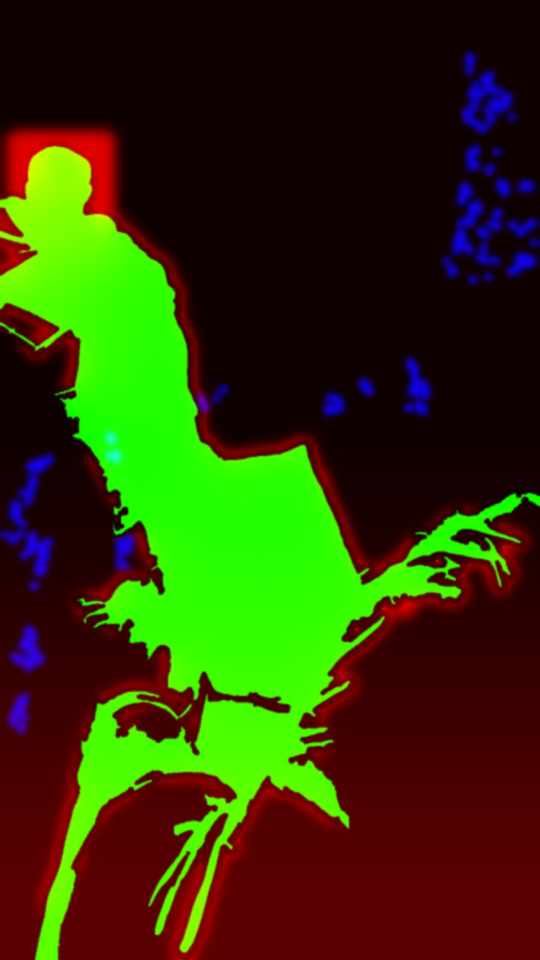
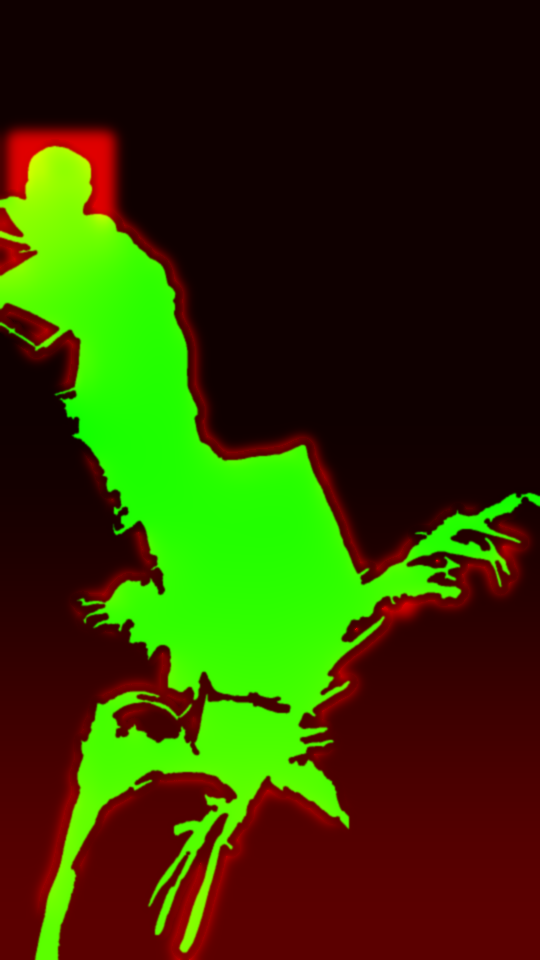
Catheartis ep 3: flicker only on real flames
Removed from s5, s7, s17, s19 and s35, where copper coins, bronze armour,
a gold sceptre and wet-floor reflections were being read as fire.

Claude-Session: https://claude.ai/code/session_01SMXJ3nXtRfudqxiRKbJBnj

diff --git a/catheartis3/index.html b/catheartis3/index.html
@@ -163,7 +163,7 @@ canvas.gl{position:absolute;inset:0;width:100%;height:100%;display:block;opacity
 <script>
 (()=>{
 'use strict';
-const CFG={"blocks":[{"k":"title","img":"assets/cover.jpg","map":"assets/cover-map.png","aspect":[9,16],"focus":0.88,"camcfg":null,"caps_cfg":[],"zmin":1.0,"stage":true,"fog":0.05,"script":"pan","pan":[1.0,0.5,0.5,1.08,0.5,0.46],"bed":"ruins","bedLv":0.6},{"k":"s1","img":"assets/s1.jpg","map":"assets/s1-map.png","aspect":[9,16],"focus":0.787,"camcfg":{"z":[1.02,1.08],"c0":[0.5,0.5],"c1":[0.5,0.54],"off":[0,0]},"caps_cfg":[{"id":"cap-s1-0","type":"c","auto":[0.1829,0.1103,0.3274]}],"zmin":1.02,"bed":"ruins","fog":0.05,"nogl":true,"uclip":"cd707eda","sfxb":[["wind",0.6]],"sfxs":[["mid",0.3,"gallopby",0.8]]},{"k":"s2","img":"assets/s2.jpg","map":"assets/s2-map.png","aspect":[9,16],"focus":0.815,"camcfg":{"z":[1.02,1.08],"c0":[0.5,0.5],"c1":[0.5,0.54],"off":[0,0]},"caps_cfg":[{"id":"cap-s2-0","type":"c","auto":[0.1848,0.1276,0.2679]}],"zmin":1.02,"bed":"ruins","fog":0.05,"nogl":true,"uclip":"9173161c","sfxb":[["wind",0.6]]},{"k":"s3","img":"assets/s3.jpg","map":"assets/s3-map.png","aspect":[9,16],"focus":0.694,"camcfg":{"z":[1.02,1.08],"c0":[0.5,0.5],"c1":[0.5,0.54],"off":[0,0]},"caps_cfg":[{"id":"cap-s3-0","type":"c","auto":[0.2194,0.1427,0.3125]}],"zmin":1.02,"bed":"ruins","fog":0.05,"nogl":true,"uclip":"3ab6440e","sfxb":[["horses",1.0]]},{"k":"s4","img":"assets/s4-bg.jpg","map":"assets/s4-map.png","aspect":[9,16],"focus":0.873,"camcfg":{"z":[1.05,1.09],"c0":[0.5,0.5],"c1":[0.484,0.521],"off":[0.008,0.04]},"caps_cfg":[{"id":"cap-s4-0","type":"b","auto":[0.8286,0.395,0.2381],"spk":{"m":[0.7883,0.4849],"e":[0.7925,0.4767,0.0295,0.0195]},"avoid":[[0.5546,0.2684,0.0809,0.0544],[0.7672,0.46,0.0505,0.0335]]}],"zmin":1.04,"bed":"ruins","fog":0.05,"fxmap":true,"fg":"assets/s4.jpg","fgp":{"c":[0.452,0.562],"z":[1.0,1.1],"o0":[0,0.025],"o1":[0,-0.025]},"dof":0.0018},{"k":"s5","img":"assets/s5-bg.jpg","map":"assets/s5-map.png","aspect":[9,16],"focus":0.88,"camcfg":{"z":[1.06,1.08],"c0":[0.5,0.5],"c1":[0.526,0.495],"off":[-0.02,0.028]},"caps_cfg":[{"id":"cap-s5-0","type":"b","auto":[0.4594,0.213,0.3125],"spk":{"m":[0.6872,0.1567],"e":[0.7147,0.132,0.0741,0.0665]},"avoid":[[0.2176,0.5685,0.1329,0.0914],[0.6512,0.075,0.127,0.1139]]}],"zmin":1.04,"bed":"ruins","fog":0.05,"fxmap":true,"gmode":0,"fg":"assets/s5.jpg","fgp":{"c":[0.579,0.5],"z":[1.0,1.03],"o0":[0.0,0],"o1":[-0.032,0]},"dof":0.0016},{"k":"s6","img":"assets/s6-bg.jpg","map":"assets/s6-map.png","aspect":[9,16],"focus":0.88,"camcfg":{"z":[1.06,1.08],"c0":[0.5,0.5],"c1":[0.471,0.52],"off":[0.006,-0.03]},"caps_cfg":[{"id":"cap-s6-0","type":"b","auto":[0.8097,0.5354,0.2827],"spk":{"m":[0.7887,0.351],"e":[0.7414,0.2875,0.1691,0.13]},"avoid":[[0.5965,0.176,0.2899,0.2229]]}],"zmin":1.04,"bed":"ruins","fog":0.05,"fxmap":true,"fg":"assets/s6.jpg","fgp":{"c":[0.418,0.98],"z":[1.02,1.05],"o0":[0,0.035],"o1":[0,-0.035]},"dof":0.0016},{"k":"s7","img":"assets/s7-bg.jpg","map":"assets/s7-map.png","aspect":[9,16],"focus":0.88,"camcfg":{"z":[1.05,1.09],"c0":[0.5,0.5],"c1":[0.555,0.545],"off":[0.008,0.04]},"caps_cfg":[{"id":"cap-s7-0","type":"b","auto":[0.3889,0.1946,0.2381],"spk":{"m":[0.5842,0.1981],"e":[0.6161,0.1762,0.064,0.051]},"avoid":[[0.5613,0.1326,0.1097,0.0874],[0.2825,0.4781,0.0455,0.0303],[0.5028,0.4372,0.0763,0.049]]},{"id":"cap-s7-1","type":"b","auto":[0.3441,0.3884,0.2381],"spk":{"m":[0.3062,0.501],"e":[0.3053,0.4932,0.0266,0.0177]},"avoid":[[0.5613,0.1326,0.1097,0.0874],[0.2825,0.4781,0.0455,0.0303],[0.5028,0.4372,0.0763,0.049]]}],"zmin":1.04,"bed":"ruins","fog":0.05,"fxmap":true,"gmode":0,"fg":"assets/s7.jpg","fgp":{"c":[0.606,0.98],"z":[1.0,1.1],"o0":[0,0.025],"o1":[0,-0.025]},"dof":0.0018},{"k":"s8","img":"assets/s8-bg.jpg","map":"assets/s8-map.png","aspect":[9,16],"focus":0.88,"camcfg":{"z":[1.06,1.08],"c0":[0.5,0.5],"c1":[0.449,0.517],"off":[-0.02,0.028]},"caps_cfg":[{"id":"cap-s8-0","type":"b","auto":[0.7611,0.1982,0.2679],"spk":{"m":[0.7145,0.293],"e":[0.7128,0.2839,0.0342,0.0239]},"avoid":[[0.6835,0.2634,0.0587,0.041]]}],"zmin":1.04,"bed":"ruins","fog":0.05,"fxmap":true,"fg":"assets/s8.jpg","fgp":{"c":[0.364,0.5],"z":[1.0,1.03],"o0":[0.032,0],"o1":[0.0,0]},"dof":0.0016},{"k":"s10","img":"assets/s10.jpg","map":"assets/s10-map.png","aspect":[9,16],"focus":0.781,"camcfg":{"z":[1.02,1.08],"c0":[0.5,0.5],"c1":[0.5,0.54],"off":[0,0]},"caps_cfg":[{"id":"cap-s10-0","type":"c","auto":[0.2329,0.1232,0.372]}],"zmin":1.02,"bed":"hall","fog":0.05,"nogl":true,"uclip":"d0f9e121","sfxb":[["fire",0.45]]},{"k":"s11","img":"assets/s11.jpg","map":"assets/s11-map.png","aspect":[9,16],"focus":0.88,"camcfg":{"z":[1.02,1.08],"c0":[0.5,0.5],"c1":[0.5,0.54],"off":[0,0]},"caps_cfg":[{"id":"cap-s11-0","type":"b","auto":[0.2847,0.3675,0.2381],"tip":[0.2252,0.3957]}],"zmin":1.02,"bed":"hall","fog":0.05,"nogl":true,"sfxb":[["fire",0.45]]},{"k":"s12","img":"assets/s12.jpg","map":"assets/s12-map.png","aspect":[9,16],"focus":0.88,"camcfg":{"z":[1.04,1.12],"c0":[0.5,0.5],"c1":[0.499,0.535],"off":[0.006,0.032]},"caps_cfg":[{"id":"cap-s12-0","type":"b","auto":[0.8206,0.3924,0.2381],"spk":{"m":[0.5396,0.3463],"e":[0.5353,0.2961,0.1565,0.1119]},"avoid":[[0.4012,0.2002,0.2683,0.1919],[0.0271,0.4888,0.1483,0.1219]]}],"zmin":1.04,"bed":"hall","fog":0.05,"fxmap":true,"sfxb":[["fire",0.45]]},{"k":"s13","img":"assets/s13-bg.jpg","map":"assets/s13-map.png","aspect":[9,16],"focus":0.697,"camcfg":{"z":[1.06,1.08],"c0":[0.5,0.5],"c1":[0.58,0.519],"off":[0.006,-0.03]},"caps_cfg":[{"id":"cap-s13-0","type":"b","auto":[0.8228,0.3729,0.2381],"tip":[0.7633,0.4011]},{"id":"cap-s13-1","type":"c","auto":[0.2001,0.0995,0.2679]}],"zmin":1.04,"bed":"hall","fog":0.05,"fxmap":true,"gmode":0,"fg":"assets/s13.jpg","fgp":{"c":[0.528,0.549],"z":[1.02,1.05],"o0":[0,0.035],"o1":[0,-0.035]},"dof":0.0016,"sfxb":[["fire",0.45]]},{"k":"s14","img":"assets/s14-bg.jpg","map":"assets/s14-map.png","aspect":[9,16],"focus":0.88,"camcfg":{"z":[1.05,1.09],"c0":[0.5,0.5],"c1":[0.426,0.559],"off":[0.008,0.04]},"caps_cfg":[{"id":"cap-s14-0","type":"b","auto":[0.3308,0.2558,0.2381],"spk":{"m":[0.3507,0.3997],"e":[0.3399,0.3889,0.0268,0.0258]},"avoid":[[0.3169,0.3668,0.046,0.0443],[0.821,0.56,0.0125,0.0089]]},{"id":"cap-s14-1","type":"b","auto":[0.7304,0.4732,0.2381],"tip":[0.6709,0.5178],"avoid":[[0.3169,0.3668,0.046,0.0443],[0.821,0.56,0.0125,0.0089]]}],"zmin":1.04,"bed":"hall","fog":0.05,"fxmap":true,"gmode":0,"fg":"assets/s14.jpg","fgp":{"c":[0.28,0.98],"z":[1.0,1.1],"o0":[0,0.025],"o1":[0,-0.025]},"dof":0.0018,"sfxb":[["fire",0.45]]},{"k":"s15","img":"assets/s15-bg.jpg","map":"assets/s15-map.png","aspect":[9,16],"focus":0.794,"camcfg":{"z":[1.06,1.08],"c0":[0.5,0.5],"c1":[0.522,0.497],"off":[-0.02,0.028]},"caps_cfg":[{"id":"cap-s15-0","type":"b","auto":[0.8337,0.5632,0.253],"tip":[0.6864,0.5632]}],"zmin":1.04,"bed":"hall","fog":0.05,"fxmap":true,"fg":"assets/s15.jpg","fgp":{"c":[0.577,0.5],"z":[1.0,1.03],"o0":[0.032,0],"o1":[-0.032,0]},"dof":0.0016,"sfxb":[["fire",0.45]]},{"k":"s16","img":"assets/s16-bg.jpg","map":"assets/s16-map.png","aspect":[9,16],"focus":0.88,"camcfg":{"z":[1.06,1.08],"c0":[0.5,0.5],"c1":[0.446,0.514],"off":[0.006,-0.03]},"caps_cfg":[{"id":"cap-s16-0","type":"b","auto":[0.6196,0.2519,0.2976],"spk":{"m":[0.3544,0.2178],"e":[0.3401,0.1915,0.0714,0.0599]},"avoid":[[0.2789,0.1402,0.1224,0.1026],[0.6692,0.4351,0.1271,0.0876],[0.5485,0.4229,0.0661,0.0519]]},{"id":"cap-s16-1","type":"c","auto":[0.792,0.0865,0.2976]}],"zmin":1.04,"bed":"hall","fog":0.05,"fxmap":true,"gmode":0,"fg":"assets/s16.jpg","fgp":{"c":[0.346,0.98],"z":[1.02,1.05],"o0":[0,0.035],"o1":[0,-0.035]},"dof":0.0016,"sfxb":[["fire",0.45]]},{"k":"s17","img":"assets/s17-bg.jpg","map":"assets/s17-map.png","aspect":[9,16],"focus":0.88,"camcfg":{"z":[1.05,1.09],"c0":[0.5,0.5],"c1":[0.459,0.512],"off":[0.008,0.04]},"caps_cfg":[{"id":"cap-s17-0","type":"b","auto":[0.6456,0.4097,0.2976],"tip":[0.8152,0.4097],"avoid":[[0.0687,0.1796,0.0906,0.0624],[0.4229,0.5436,0.1177,0.0837]]},{"id":"cap-s17-1","type":"c","auto":[0.1843,0.0755,0.3423]}],"zmin":1.04,"bed":"hall","fog":0.05,"fxmap":true,"gmode":0,"fg":"assets/s17.jpg","fgp":{"c":[0.362,0.98],"z":[1.0,1.1],"o0":[0,0.025],"o1":[0,-0.025]},"dof":0.0018,"sfxb":[["fire",0.45]]},{"k":"s18","img":"assets/s18-bg.jpg","map":"assets/s18-map.png","aspect":[9,16],"focus":0.694,"camcfg":{"z":[1.06,1.08],"c0":[0.5,0.5],"c1":[0.499,0.467],"off":[-0.02,0.028]},"caps_cfg":[{"id":"cap-s18-0","type":"b","auto":[0.2285,0.547,0.2976],"tip":[0.3981,0.547],"avoid":[[0.7626,0.1488,0.1738,0.13]]}],"zmin":1.04,"bed":"hall","fog":0.05,"fxmap":true,"fg":"assets/s18.jpg","fgp":{"c":[0.517,0.5],"z":[1.0,1.03],"o0":[0.032,0],"o1":[-0.032,0]},"dof":0.0016,"sfxb":[["fire",0.45]]},{"k":"s19","img":"assets/s19-bg.jpg","map":"assets/s19-map.png","aspect":[9,16],"focus":0.854,"camcfg":{"z":[1.06,1.08],"c0":[0.5,0.5],"c1":[0.483,0.546],"off":[0.006,-0.03]},"caps_cfg":[{"id":"cap-s19-0","type":"c","auto":[0.2098,0.1092,0.2679]}],"zmin":1.04,"bed":"hall","fog":0.05,"fxmap":true,"gmode":0,"fg":"assets/s19.jpg","fgp":{"c":[0.4,0.608],"z":[1.02,1.05],"o0":[0,0.035],"o1":[0,-0.035]},"dof":0.0016,"sfxb":[["fire",0.45]]},{"k":"s20","img":"assets/s20.jpg","map":"assets/s20-map.png","aspect":[9,16],"focus":0.848,"camcfg":{"z":[1.02,1.08],"c0":[0.5,0.5],"c1":[0.5,0.54],"off":[0,0]},"caps_cfg":[{"id":"cap-s20-0","type":"b","auto":[0.6306,0.1403,0.2381],"spk":{"m":[0.5869,0.2187],"e":[0.5874,0.2149,0.0105,0.0072]},"avoid":[[0.5784,0.2087,0.018,0.0123],[0.6441,0.6825,0.0346,0.0248],[0.7343,0.5068,0.0311,0.0232]]},{"id":"cap-s20-1","type":"b","auto":[0.4525,0.3705,0.3125],"tip":[0.5306,0.4151],"avoid":[[0.5784,0.2087,0.018,0.0123],[0.6441,0.6825,0.0346,0.0248],[0.7343,0.5068,0.0311,0.0232]]}],"zmin":1.02,"bed":"hall","fog":0.05,"nogl":true,"sfxb":[["fire",0.45]]},{"k":"s21","img":"assets/s21.jpg","map":"assets/s21-map.png","aspect":[9,16],"focus":0.88,"camcfg":{"z":[1.04,1.12],"c0":[0.5,0.5],"c1":[0.494,0.545],"off":[0.006,0.032]},"caps_cfg":[{"id":"cap-s21-0","type":"b","auto":[0.769,0.1532,0.2381],"spk":{"m":[0.6353,0.572],"e":[0.572,0.4797,0.2568,0.2104]},"avoid":[[0.352,0.2994,0.4402,0.3606],[0.0255,0.2037,0.1548,0.0949]]},{"id":"cap-s21-1","type":"c","auto":[0.2212,0.0789,0.3274]}],"zmin":1.04,"bed":"hall","fog":0.05,"fxmap":true,"sfxb":[["fire",0.45]]},{"k":"s22","img":"assets/s22.jpg","map":"assets/s22-map.png","aspect":[9,16],"focus":0.88,"camcfg":{"z":[1.04,1.12],"c0":[0.5,0.5],"c1":[0.517,0.504],"off":[0.006,0.032]},"caps_cfg":[{"id":"cap-s22-0","type":"b","auto":[0.3544,0.4022,0.3571],"tip":[0.5538,0.4022],"avoid":[[0.6315,0.2548,0.1988,0.1379],[0.2176,0.5694,0.166,0.1029]]},{"id":"cap-s22-1","type":"c","auto":[0.2385,0.093,0.2679]}],"zmin":1.04,"bed":"hall","fog":0.05,"fxmap":true,"gmode":0,"sfxb":[["fire",0.45]]},{"k":"s23","img":"assets/s23.jpg","map":"assets/s23-map.png","aspect":[9,16],"focus":0.605,"camcfg":{"z":[1.02,1.08],"c0":[0.5,0.5],"c1":[0.5,0.54],"off":[0,0]},"caps_cfg":[{"id":"cap-s23-0","type":"b","auto":[0.6806,0.3138,0.2381],"spk":{"m":[0.5384,0.3183],"e":[0.4843,0.2485,0.1556,0.1355]},"avoid":[[0.3045,0.462,0.1,0.0787],[0.3509,0.1323,0.2667,0.2323]]},{"id":"cap-s23-1","type":"c","auto":[0.225,0.1092,0.2976]}],"zmin":1.02,"bed":"hall","fog":0.05,"nogl":true,"uclip":"fddb3e59","sfxb":[["fire",0.45]]},{"k":"s24","img":"assets/s24.jpg","map":"assets/s24-map.png","aspect":[9,16],"focus":0.88,"camcfg":{"z":[1.04,1.12],"c0":[0.5,0.5],"c1":[0.495,0.525],"off":[0.006,0.032]},"caps_cfg":[{"id":"cap-s24-0","type":"b","auto":[0.7273,0.5984,0.3571],"tip":[0.638,0.5049]}],"zmin":1.04,"bed":"hall","fog":0.05,"fxmap":true,"gmode":0,"sfxb":[["fire",0.45]]},{"k":"s25","img":"assets/s25-bg.jpg","map":"assets/s25-map.png","aspect":[9,16],"focus":0.88,"camcfg":{"z":[1.05,1.09],"c0":[0.5,0.5],"c1":[0.498,0.557],"off":[0.008,0.04]},"caps_cfg":[{"id":"cap-s25-0","type":"b","auto":[0.78,0.18,0.26],"spk":{"m":[0.5089,0.2899],"e":[0.4974,0.2721,0.0674,0.0453]},"avoid":[[0.4397,0.2332,0.1155,0.0777],[0.2143,0.0745,0.2389,0.2056]]}],"zmin":1.04,"bed":"hall","fog":0.05,"fxmap":true,"gmode":0,"fg":"assets/s25.jpg","fgp":{"c":[0.489,0.98],"z":[1.0,1.1],"o0":[0,0.025],"o1":[0,-0.025]},"dof":0.0018,"sfxb":[["fire",0.45]]},{"k":"s26","img":"assets/s26-bg.jpg","map":"assets/s26-map.png","aspect":[9,16],"focus":0.822,"camcfg":{"z":[1.06,1.08],"c0":[0.5,0.5],"c1":[0.487,0.475],"off":[-0.02,0.028]},"caps_cfg":[{"id":"cap-s26-0","type":"b","auto":[0.8137,0.4216,0.2976],"tip":[0.6441,0.4216],"avoid":[[0.2558,0.5089,0.0491,0.0397],[0.6391,0.6781,0.0397,0.0262]]},{"id":"cap-s26-1","type":"c","auto":[0.177,0.1243,0.2679]}],"zmin":1.04,"bed":"camp","fxmap":true,"fg":"assets/s26.jpg","fgp":{"c":[0.454,0.5],"z":[1.0,1.03],"o0":[0.032,0],"o1":[0.0,0]},"dof":0.0016},{"k":"s27","img":"assets/s27-bg.jpg","map":"assets/s27-map.png","aspect":[9,16],"focus":0.69,"camcfg":{"z":[1.06,1.08],"c0":[0.5,0.5],"c1":[0.557,0.456],"off":[0.006,-0.03]},"caps_cfg":[{"id":"cap-s27-0","type":"b","auto":[0.3044,0.3416,0.2381],"tip":[0.4443,0.3416]}],"zmin":1.04,"bed":"camp","fxmap":true,"gmode":0,"fg":"assets/s27.jpg","fgp":{"c":[0.56,0.98],"z":[1.02,1.05],"o0":[0,0.035],"o1":[0,-0.035]},"dof":0.0016},{"k":"s28","img":"assets/s28-bg.jpg","map":"assets/s28-map.png","aspect":[9,16],"focus":0.88,"camcfg":{"z":[1.05,1.09],"c0":[0.5,0.5],"c1":[0.523,0.537],"off":[0.008,0.04]},"caps_cfg":[{"id":"cap-s28-0","type":"b","auto":[0.6095,0.2083,0.2381],"spk":{"m":[0.5582,0.3562],"e":[0.5643,0.3421,0.0475,0.0328]},"avoid":[[0.5236,0.314,0.0814,0.0562]]}],"zmin":1.04,"bed":"camp","fxmap":true,"gmode":0,"fg":"assets/s28.jpg","fgp":{"c":[0.41,0.98],"z":[1.0,1.1],"o0":[0,0.025],"o1":[0,-0.025]},"dof":0.0018},{"k":"s29","img":"assets/s29-bg.jpg","map":"assets/s29-map.png","aspect":[9,16],"focus":0.865,"camcfg":{"z":[1.06,1.08],"c0":[0.5,0.5],"c1":[0.522,0.505],"off":[-0.02,0.028]},"caps_cfg":[{"id":"cap-s29-0","type":"b","auto":[0.4403,0.124,0.2381],"spk":{"m":[0.5451,0.4802],"e":[0.5297,0.409,0.2018,0.1534]},"avoid":[[0.3567,0.2775,0.346,0.2629]]}],"zmin":1.04,"bed":"camp","fxmap":true,"fg":"assets/s29.jpg","fgp":{"c":[0.565,0.5],"z":[1.0,1.03],"o0":[0.032,0],"o1":[-0.032,0]},"dof":0.0016},{"k":"s30","img":"assets/s30-bg.jpg","map":"assets/s30-map.png","aspect":[9,16],"focus":0.858,"camcfg":{"z":[1.06,1.08],"c0":[0.5,0.5],"c1":[0.519,0.558],"off":[0.006,-0.03]},"caps_cfg":[{"id":"cap-s30-0","type":"c","auto":[0.7844,0.1438,0.3571]}],"zmin":1.04,"bed":"jungle","fxmap":true,"fg":"assets/s30.jpg","fgp":{"c":[0.55,0.668],"z":[1.02,1.05],"o0":[0,0.035],"o1":[0,-0.035]},"dof":0.0016,"sfxb":[["garden",0.8]]},{"k":"s31","img":"assets/s31-bg.jpg","map":"assets/s31-map.png","aspect":[9,16],"focus":0.672,"camcfg":{"z":[1.05,1.09],"c0":[0.5,0.5],"c1":[0.58,0.434],"off":[0.008,0.04]},"caps_cfg":[{"id":"cap-s31-0","type":"b","auto":[0.4908,0.1168,0.2381],"spk":{"m":[0.7015,0.118],"e":[0.7098,0.1019,0.0481,0.0341]},"avoid":[[0.6686,0.0726,0.0824,0.0585],[0.3044,0.2947,0.076,0.0672]]},{"id":"cap-s31-1","type":"b","auto":[0.536,0.3546,0.2381],"spk":{"m":[0.3651,0.3453],"e":[0.3424,0.3284,0.0444,0.0392]},"avoid":[[0.6686,0.0726,0.0824,0.0585],[0.3044,0.2947,0.076,0.0672]]}],"zmin":1.04,"bed":"jungle","fxmap":true,"fg":"assets/s31.jpg","fgp":{"c":[0.521,0.386],"z":[1.0,1.1],"o0":[0,0.025],"o1":[0,-0.025]},"dof":0.0018,"sfxb":[["garden",0.8]]},{"k":"s32","img":"assets/s32-bg.jpg","map":"assets/s32-map.png","aspect":[9,16],"focus":0.88,"camcfg":{"z":[1.06,1.08],"c0":[0.5,0.5],"c1":[0.572,0.489],"off":[-0.02,0.028]},"caps_cfg":[{"id":"cap-s32-0","type":"b","auto":[0.4187,0.4534,0.3869],"tip":[0.5154,0.3762]}],"zmin":1.04,"bed":"jungle","fxmap":true,"fg":"assets/s32.jpg","fgp":{"c":[0.709,0.5],"z":[1.0,1.03],"o0":[0.0,0],"o1":[-0.032,0]},"dof":0.0016,"sfxb":[["garden",0.8]]},{"k":"s33","img":"assets/s33-bg.jpg","map":"assets/s33-map.png","aspect":[9,16],"focus":0.603,"camcfg":{"z":[1.06,1.08],"c0":[0.5,0.5],"c1":[0.477,0.464],"off":[0.006,-0.03]},"caps_cfg":[{"id":"cap-s33-0","type":"b","auto":[0.7331,0.2128,0.3125],"spk":{"m":[0.5739,0.4379],"e":[0.4697,0.3762,0.1759,0.1447]},"avoid":[[0.3189,0.2522,0.3015,0.2481],[0.7555,0.0183,0.0127,0.0091]]}],"zmin":1.04,"bed":"jungle","fxmap":true,"fg":"assets/s33.jpg","fgp":{"c":[0.43,0.392],"z":[1.02,1.05],"o0":[0,0.035],"o1":[0,-0.035]},"dof":0.0016,"sfxb":[["garden",0.8]]},{"k":"s34","img":"assets/s34.jpg","map":"assets/s34-map.png","aspect":[9,16],"focus":0.5,"camcfg":{"z":[1.04,1.12],"c0":[0.5,0.5],"c1":[0.5,0.5],"off":[0.006,0.032]},"caps_cfg":[{"id":"cap-s34-0","type":"c","auto":[0.7344,0.1211,0.3869]}],"zmin":1.04,"bed":"study","fxmap":true,"sfxb":[["garden",0.8]]},{"k":"s35","img":"assets/s35-bg.jpg","map":"assets/s35-map.png","aspect":[9,16],"focus":0.761,"camcfg":{"z":[1.05,1.09],"c0":[0.5,0.5],"c1":[0.58,0.512],"off":[0.008,0.04]},"caps_cfg":[{"id":"cap-s35-0","type":"b","auto":[0.1963,0.3658,0.2381],"spk":{"m":[0.1463,0.4585],"e":[0.1441,0.4522,0.0242,0.015]},"avoid":[[0.2359,0.4228,0.0376,0.0267],[0.3278,0.4342,0.0289,0.0239],[0.7581,0.4129,0.1804,0.1004],[0.502,0.3283,0.0402,0.031],[0.1234,0.4394,0.0414,0.0257]]},{"id":"cap-s35-1","type":"b","auto":[0.45,0.5,0.2976],"spk":{"m":[0.511,0.3509],"e":[0.5221,0.3438,0.0235,0.0181]},"avoid":[[0.2359,0.4228,0.0376,0.0267],[0.3278,0.4342,0.0289,0.0239],[0.7581,0.4129,0.1804,0.1004],[0.502,0.3283,0.0402,0.031],[0.1234,0.4394,0.0414,0.0257]]}],"zmin":1.04,"bed":"study","fxmap":true,"gmode":0,"fg":"assets/s35.jpg","fgp":{"c":[0.655,0.597],"z":[1.0,1.1],"o0":[0,0.025],"o1":[0,-0.025]},"dof":0.0018},{"k":"s36","img":"assets/s36-bg.jpg","map":"assets/s36-map.png","aspect":[9,16],"focus":0.88,"camcfg":{"z":[1.05,1.09],"c0":[0.5,0.5],"c1":[0.459,0.537],"off":[0.008,0.04]},"caps_cfg":[{"id":"cap-s36-0","type":"b","auto":[0.7297,0.2835,0.3423],"tip":[0.6441,0.3362]}],"zmin":1.04,"bed":"study","fxmap":true,"fg":"assets/s36.jpg","fgp":{"c":[0.381,0.98],"z":[1.0,1.1],"o0":[0,0.025],"o1":[0,-0.025]},"dof":0.0018},{"k":"s37","img":"assets/s37-bg.jpg","map":"assets/s37-map.png","aspect":[9,16],"focus":0.675,"camcfg":{"z":[1.06,1.08],"c0":[0.5,0.5],"c1":[0.487,0.42],"off":[0.006,-0.03]},"caps_cfg":[{"id":"cap-s37-0","type":"b","auto":[0.2854,0.2616,0.253],"spk":{"m":[0.5293,0.2037],"e":[0.5202,0.1768,0.102,0.0645]},"avoid":[[0.4328,0.1215,0.1749,0.1105]]}],"zmin":1.04,"bed":"study","fxmap":true,"fg":"assets/s37.jpg","fgp":{"c":[0.544,0.408],"z":[1.02,1.05],"o0":[0,0.035],"o1":[0,-0.035]},"dof":0.0016},{"k":"s38","img":"assets/s38-bg.jpg","map":"assets/s38-map.png","aspect":[9,16],"focus":0.822,"camcfg":{"z":[1.05,1.09],"c0":[0.5,0.5],"c1":[0.516,0.466],"off":[0.008,0.04]},"caps_cfg":[{"id":"cap-s38-0","type":"b","auto":[0.1456,0.24,0.2827],"tip":[0.3078,0.24]}],"zmin":1.04,"bed":"study","fxmap":true,"fg":"assets/s38.jpg","fgp":{"c":[0.547,0.402],"z":[1.0,1.1],"o0":[0,0.025],"o1":[0,-0.025]},"dof":0.0018},{"k":"s39","img":"assets/s39-bg.jpg","map":"assets/s39-map.png","aspect":[9,16],"focus":0.723,"camcfg":{"z":[1.06,1.08],"c0":[0.5,0.5],"c1":[0.494,0.494],"off":[-0.02,0.028]},"caps_cfg":[{"id":"cap-s39-0","type":"b","auto":[0.141,0.6184,0.2381],"tip":[0.2809,0.6184]}],"zmin":1.04,"bed":"study","fxmap":true,"fg":"assets/s39.jpg","fgp":{"c":[0.491,0.5],"z":[1.0,1.03],"o0":[0.032,0],"o1":[-0.032,0]},"dof":0.0016},{"k":"s40","img":"assets/s40-bg.jpg","map":"assets/s40-map.png","aspect":[9,16],"focus":0.88,"camcfg":{"z":[1.06,1.08],"c0":[0.5,0.5],"c1":[0.493,0.465],"off":[0.006,-0.03]},"caps_cfg":[{"id":"cap-s40-0","type":"b","auto":[0.6229,0.6008,0.2381],"tip":[0.5634,0.5481],"avoid":[[0.9222,0.005,0.0845,0.0676]]},{"id":"cap-s40-1","type":"c","auto":[0.1943,0.0876,0.3423]},{"id":"cap-s40-2","type":"c","auto":[0.8095,0.7741,0.3274]}],"zmin":1.04,"bed":"study","fxmap":true,"fg":"assets/s40.jpg","fgp":{"c":[0.468,0.98],"z":[1.02,1.05],"o0":[0,0.035],"o1":[0,-0.035]},"dof":0.0016}],"fsk":{"c":1.25,"b":1.08},"sfxFiles":{"horses":{"src":"assets/sfx/horses.m4a","loop":true,"seam":[2.0,9.7,0.5]},"wind":{"src":"assets/sfx/wind.m4a","loop":true,"seam":[0.0,24.5,2.0]},"fire":{"src":"assets/sfx/fire.m4a","loop":true,"seam":[0.5,31.0,3.0]},"garden":{"src":"assets/sfx/garden.m4a","loop":true,"seam":[1.0,83.0,3.0]},"gallopby":{"src":"assets/sfx/gallop-by.m4a","loop":false}}};
+const CFG={"blocks":[{"k":"title","img":"assets/cover.jpg","map":"assets/cover-map.png","aspect":[9,16],"focus":0.88,"camcfg":null,"caps_cfg":[],"zmin":1.0,"stage":true,"fog":0.05,"script":"pan","pan":[1.0,0.5,0.5,1.08,0.5,0.46],"bed":"ruins","bedLv":0.6},{"k":"s1","img":"assets/s1.jpg","map":"assets/s1-map.png","aspect":[9,16],"focus":0.787,"camcfg":{"z":[1.02,1.08],"c0":[0.5,0.5],"c1":[0.5,0.54],"off":[0,0]},"caps_cfg":[{"id":"cap-s1-0","type":"c","auto":[0.1829,0.1103,0.3274]}],"zmin":1.02,"bed":"ruins","fog":0.05,"nogl":true,"uclip":"cd707eda","sfxb":[["wind",0.6]],"sfxs":[["mid",0.3,"gallopby",0.8]]},{"k":"s2","img":"assets/s2.jpg","map":"assets/s2-map.png","aspect":[9,16],"focus":0.815,"camcfg":{"z":[1.02,1.08],"c0":[0.5,0.5],"c1":[0.5,0.54],"off":[0,0]},"caps_cfg":[{"id":"cap-s2-0","type":"c","auto":[0.1848,0.1276,0.2679]}],"zmin":1.02,"bed":"ruins","fog":0.05,"nogl":true,"uclip":"9173161c","sfxb":[["wind",0.6]]},{"k":"s3","img":"assets/s3.jpg","map":"assets/s3-map.png","aspect":[9,16],"focus":0.694,"camcfg":{"z":[1.02,1.08],"c0":[0.5,0.5],"c1":[0.5,0.54],"off":[0,0]},"caps_cfg":[{"id":"cap-s3-0","type":"c","auto":[0.2194,0.1427,0.3125]}],"zmin":1.02,"bed":"ruins","fog":0.05,"nogl":true,"uclip":"3ab6440e","sfxb":[["horses",1.0]]},{"k":"s4","img":"assets/s4-bg.jpg","map":"assets/s4-map.png","aspect":[9,16],"focus":0.873,"camcfg":{"z":[1.05,1.09],"c0":[0.5,0.5],"c1":[0.484,0.521],"off":[0.008,0.04]},"caps_cfg":[{"id":"cap-s4-0","type":"b","auto":[0.8286,0.395,0.2381],"spk":{"m":[0.7883,0.4849],"e":[0.7925,0.4767,0.0295,0.0195]},"avoid":[[0.5546,0.2684,0.0809,0.0544],[0.7672,0.46,0.0505,0.0335]]}],"zmin":1.04,"bed":"ruins","fog":0.05,"fxmap":true,"fg":"assets/s4.jpg","fgp":{"c":[0.452,0.562],"z":[1.0,1.1],"o0":[0,0.025],"o1":[0,-0.025]},"dof":0.0018},{"k":"s5","img":"assets/s5-bg.jpg","map":"assets/s5-map.png","aspect":[9,16],"focus":0.88,"camcfg":{"z":[1.06,1.08],"c0":[0.5,0.5],"c1":[0.526,0.495],"off":[-0.02,0.028]},"caps_cfg":[{"id":"cap-s5-0","type":"b","auto":[0.4594,0.213,0.3125],"spk":{"m":[0.6872,0.1567],"e":[0.7147,0.132,0.0741,0.0665]},"avoid":[[0.2176,0.5685,0.1329,0.0914],[0.6512,0.075,0.127,0.1139]]}],"zmin":1.04,"bed":"ruins","fog":0.05,"fxmap":true,"fg":"assets/s5.jpg","fgp":{"c":[0.579,0.5],"z":[1.0,1.03],"o0":[0.0,0],"o1":[-0.032,0]},"dof":0.0016},{"k":"s6","img":"assets/s6-bg.jpg","map":"assets/s6-map.png","aspect":[9,16],"focus":0.88,"camcfg":{"z":[1.06,1.08],"c0":[0.5,0.5],"c1":[0.471,0.52],"off":[0.006,-0.03]},"caps_cfg":[{"id":"cap-s6-0","type":"b","auto":[0.8097,0.5354,0.2827],"spk":{"m":[0.7887,0.351],"e":[0.7414,0.2875,0.1691,0.13]},"avoid":[[0.5965,0.176,0.2899,0.2229]]}],"zmin":1.04,"bed":"ruins","fog":0.05,"fxmap":true,"fg":"assets/s6.jpg","fgp":{"c":[0.418,0.98],"z":[1.02,1.05],"o0":[0,0.035],"o1":[0,-0.035]},"dof":0.0016},{"k":"s7","img":"assets/s7-bg.jpg","map":"assets/s7-map.png","aspect":[9,16],"focus":0.88,"camcfg":{"z":[1.05,1.09],"c0":[0.5,0.5],"c1":[0.555,0.545],"off":[0.008,0.04]},"caps_cfg":[{"id":"cap-s7-0","type":"b","auto":[0.3889,0.1946,0.2381],"spk":{"m":[0.5842,0.1981],"e":[0.6161,0.1762,0.064,0.051]},"avoid":[[0.5613,0.1326,0.1097,0.0874],[0.2825,0.4781,0.0455,0.0303],[0.5028,0.4372,0.0763,0.049]]},{"id":"cap-s7-1","type":"b","auto":[0.3441,0.3884,0.2381],"spk":{"m":[0.3062,0.501],"e":[0.3053,0.4932,0.0266,0.0177]},"avoid":[[0.5613,0.1326,0.1097,0.0874],[0.2825,0.4781,0.0455,0.0303],[0.5028,0.4372,0.0763,0.049]]}],"zmin":1.04,"bed":"ruins","fog":0.05,"fxmap":true,"fg":"assets/s7.jpg","fgp":{"c":[0.606,0.98],"z":[1.0,1.1],"o0":[0,0.025],"o1":[0,-0.025]},"dof":0.0018},{"k":"s8","img":"assets/s8-bg.jpg","map":"assets/s8-map.png","aspect":[9,16],"focus":0.88,"camcfg":{"z":[1.06,1.08],"c0":[0.5,0.5],"c1":[0.449,0.517],"off":[-0.02,0.028]},"caps_cfg":[{"id":"cap-s8-0","type":"b","auto":[0.7611,0.1982,0.2679],"spk":{"m":[0.7145,0.293],"e":[0.7128,0.2839,0.0342,0.0239]},"avoid":[[0.6835,0.2634,0.0587,0.041]]}],"zmin":1.04,"bed":"ruins","fog":0.05,"fxmap":true,"fg":"assets/s8.jpg","fgp":{"c":[0.364,0.5],"z":[1.0,1.03],"o0":[0.032,0],"o1":[0.0,0]},"dof":0.0016},{"k":"s10","img":"assets/s10.jpg","map":"assets/s10-map.png","aspect":[9,16],"focus":0.781,"camcfg":{"z":[1.02,1.08],"c0":[0.5,0.5],"c1":[0.5,0.54],"off":[0,0]},"caps_cfg":[{"id":"cap-s10-0","type":"c","auto":[0.2329,0.1232,0.372]}],"zmin":1.02,"bed":"hall","fog":0.05,"nogl":true,"uclip":"d0f9e121","sfxb":[["fire",0.45]]},{"k":"s11","img":"assets/s11.jpg","map":"assets/s11-map.png","aspect":[9,16],"focus":0.88,"camcfg":{"z":[1.02,1.08],"c0":[0.5,0.5],"c1":[0.5,0.54],"off":[0,0]},"caps_cfg":[{"id":"cap-s11-0","type":"b","auto":[0.2847,0.3675,0.2381],"tip":[0.2252,0.3957]}],"zmin":1.02,"bed":"hall","fog":0.05,"nogl":true,"sfxb":[["fire",0.45]]},{"k":"s12","img":"assets/s12.jpg","map":"assets/s12-map.png","aspect":[9,16],"focus":0.88,"camcfg":{"z":[1.04,1.12],"c0":[0.5,0.5],"c1":[0.499,0.535],"off":[0.006,0.032]},"caps_cfg":[{"id":"cap-s12-0","type":"b","auto":[0.8206,0.3924,0.2381],"spk":{"m":[0.5396,0.3463],"e":[0.5353,0.2961,0.1565,0.1119]},"avoid":[[0.4012,0.2002,0.2683,0.1919],[0.0271,0.4888,0.1483,0.1219]]}],"zmin":1.04,"bed":"hall","fog":0.05,"fxmap":true,"sfxb":[["fire",0.45]]},{"k":"s13","img":"assets/s13-bg.jpg","map":"assets/s13-map.png","aspect":[9,16],"focus":0.697,"camcfg":{"z":[1.06,1.08],"c0":[0.5,0.5],"c1":[0.58,0.519],"off":[0.006,-0.03]},"caps_cfg":[{"id":"cap-s13-0","type":"b","auto":[0.8228,0.3729,0.2381],"tip":[0.7633,0.4011]},{"id":"cap-s13-1","type":"c","auto":[0.2001,0.0995,0.2679]}],"zmin":1.04,"bed":"hall","fog":0.05,"fxmap":true,"gmode":0,"fg":"assets/s13.jpg","fgp":{"c":[0.528,0.549],"z":[1.02,1.05],"o0":[0,0.035],"o1":[0,-0.035]},"dof":0.0016,"sfxb":[["fire",0.45]]},{"k":"s14","img":"assets/s14-bg.jpg","map":"assets/s14-map.png","aspect":[9,16],"focus":0.88,"camcfg":{"z":[1.05,1.09],"c0":[0.5,0.5],"c1":[0.426,0.559],"off":[0.008,0.04]},"caps_cfg":[{"id":"cap-s14-0","type":"b","auto":[0.3308,0.2558,0.2381],"spk":{"m":[0.3507,0.3997],"e":[0.3399,0.3889,0.0268,0.0258]},"avoid":[[0.3169,0.3668,0.046,0.0443],[0.821,0.56,0.0125,0.0089]]},{"id":"cap-s14-1","type":"b","auto":[0.7304,0.4732,0.2381],"tip":[0.6709,0.5178],"avoid":[[0.3169,0.3668,0.046,0.0443],[0.821,0.56,0.0125,0.0089]]}],"zmin":1.04,"bed":"hall","fog":0.05,"fxmap":true,"gmode":0,"fg":"assets/s14.jpg","fgp":{"c":[0.28,0.98],"z":[1.0,1.1],"o0":[0,0.025],"o1":[0,-0.025]},"dof":0.0018,"sfxb":[["fire",0.45]]},{"k":"s15","img":"assets/s15-bg.jpg","map":"assets/s15-map.png","aspect":[9,16],"focus":0.794,"camcfg":{"z":[1.06,1.08],"c0":[0.5,0.5],"c1":[0.522,0.497],"off":[-0.02,0.028]},"caps_cfg":[{"id":"cap-s15-0","type":"b","auto":[0.8337,0.5632,0.253],"tip":[0.6864,0.5632]}],"zmin":1.04,"bed":"hall","fog":0.05,"fxmap":true,"fg":"assets/s15.jpg","fgp":{"c":[0.577,0.5],"z":[1.0,1.03],"o0":[0.032,0],"o1":[-0.032,0]},"dof":0.0016,"sfxb":[["fire",0.45]]},{"k":"s16","img":"assets/s16-bg.jpg","map":"assets/s16-map.png","aspect":[9,16],"focus":0.88,"camcfg":{"z":[1.06,1.08],"c0":[0.5,0.5],"c1":[0.446,0.514],"off":[0.006,-0.03]},"caps_cfg":[{"id":"cap-s16-0","type":"b","auto":[0.6196,0.2519,0.2976],"spk":{"m":[0.3544,0.2178],"e":[0.3401,0.1915,0.0714,0.0599]},"avoid":[[0.2789,0.1402,0.1224,0.1026],[0.6692,0.4351,0.1271,0.0876],[0.5485,0.4229,0.0661,0.0519]]},{"id":"cap-s16-1","type":"c","auto":[0.792,0.0865,0.2976]}],"zmin":1.04,"bed":"hall","fog":0.05,"fxmap":true,"gmode":0,"fg":"assets/s16.jpg","fgp":{"c":[0.346,0.98],"z":[1.02,1.05],"o0":[0,0.035],"o1":[0,-0.035]},"dof":0.0016,"sfxb":[["fire",0.45]]},{"k":"s17","img":"assets/s17-bg.jpg","map":"assets/s17-map.png","aspect":[9,16],"focus":0.88,"camcfg":{"z":[1.05,1.09],"c0":[0.5,0.5],"c1":[0.459,0.512],"off":[0.008,0.04]},"caps_cfg":[{"id":"cap-s17-0","type":"b","auto":[0.6456,0.4097,0.2976],"tip":[0.8152,0.4097],"avoid":[[0.0687,0.1796,0.0906,0.0624],[0.4229,0.5436,0.1177,0.0837]]},{"id":"cap-s17-1","type":"c","auto":[0.1843,0.0755,0.3423]}],"zmin":1.04,"bed":"hall","fog":0.05,"fxmap":true,"fg":"assets/s17.jpg","fgp":{"c":[0.362,0.98],"z":[1.0,1.1],"o0":[0,0.025],"o1":[0,-0.025]},"dof":0.0018,"sfxb":[["fire",0.45]]},{"k":"s18","img":"assets/s18-bg.jpg","map":"assets/s18-map.png","aspect":[9,16],"focus":0.694,"camcfg":{"z":[1.06,1.08],"c0":[0.5,0.5],"c1":[0.499,0.467],"off":[-0.02,0.028]},"caps_cfg":[{"id":"cap-s18-0","type":"b","auto":[0.2285,0.547,0.2976],"tip":[0.3981,0.547],"avoid":[[0.7626,0.1488,0.1738,0.13]]}],"zmin":1.04,"bed":"hall","fog":0.05,"fxmap":true,"fg":"assets/s18.jpg","fgp":{"c":[0.517,0.5],"z":[1.0,1.03],"o0":[0.032,0],"o1":[-0.032,0]},"dof":0.0016,"sfxb":[["fire",0.45]]},{"k":"s19","img":"assets/s19-bg.jpg","map":"assets/s19-map.png","aspect":[9,16],"focus":0.854,"camcfg":{"z":[1.06,1.08],"c0":[0.5,0.5],"c1":[0.483,0.546],"off":[0.006,-0.03]},"caps_cfg":[{"id":"cap-s19-0","type":"c","auto":[0.2098,0.1092,0.2679]}],"zmin":1.04,"bed":"hall","fog":0.05,"fxmap":true,"fg":"assets/s19.jpg","fgp":{"c":[0.4,0.608],"z":[1.02,1.05],"o0":[0,0.035],"o1":[0,-0.035]},"dof":0.0016,"sfxb":[["fire",0.45]]},{"k":"s20","img":"assets/s20.jpg","map":"assets/s20-map.png","aspect":[9,16],"focus":0.848,"camcfg":{"z":[1.02,1.08],"c0":[0.5,0.5],"c1":[0.5,0.54],"off":[0,0]},"caps_cfg":[{"id":"cap-s20-0","type":"b","auto":[0.6306,0.1403,0.2381],"spk":{"m":[0.5869,0.2187],"e":[0.5874,0.2149,0.0105,0.0072]},"avoid":[[0.5784,0.2087,0.018,0.0123],[0.6441,0.6825,0.0346,0.0248],[0.7343,0.5068,0.0311,0.0232]]},{"id":"cap-s20-1","type":"b","auto":[0.4525,0.3705,0.3125],"tip":[0.5306,0.4151],"avoid":[[0.5784,0.2087,0.018,0.0123],[0.6441,0.6825,0.0346,0.0248],[0.7343,0.5068,0.0311,0.0232]]}],"zmin":1.02,"bed":"hall","fog":0.05,"nogl":true,"sfxb":[["fire",0.45]]},{"k":"s21","img":"assets/s21.jpg","map":"assets/s21-map.png","aspect":[9,16],"focus":0.88,"camcfg":{"z":[1.04,1.12],"c0":[0.5,0.5],"c1":[0.494,0.545],"off":[0.006,0.032]},"caps_cfg":[{"id":"cap-s21-0","type":"b","auto":[0.769,0.1532,0.2381],"spk":{"m":[0.6353,0.572],"e":[0.572,0.4797,0.2568,0.2104]},"avoid":[[0.352,0.2994,0.4402,0.3606],[0.0255,0.2037,0.1548,0.0949]]},{"id":"cap-s21-1","type":"c","auto":[0.2212,0.0789,0.3274]}],"zmin":1.04,"bed":"hall","fog":0.05,"fxmap":true,"sfxb":[["fire",0.45]]},{"k":"s22","img":"assets/s22.jpg","map":"assets/s22-map.png","aspect":[9,16],"focus":0.88,"camcfg":{"z":[1.04,1.12],"c0":[0.5,0.5],"c1":[0.517,0.504],"off":[0.006,0.032]},"caps_cfg":[{"id":"cap-s22-0","type":"b","auto":[0.3544,0.4022,0.3571],"tip":[0.5538,0.4022],"avoid":[[0.6315,0.2548,0.1988,0.1379],[0.2176,0.5694,0.166,0.1029]]},{"id":"cap-s22-1","type":"c","auto":[0.2385,0.093,0.2679]}],"zmin":1.04,"bed":"hall","fog":0.05,"fxmap":true,"gmode":0,"sfxb":[["fire",0.45]]},{"k":"s23","img":"assets/s23.jpg","map":"assets/s23-map.png","aspect":[9,16],"focus":0.605,"camcfg":{"z":[1.02,1.08],"c0":[0.5,0.5],"c1":[0.5,0.54],"off":[0,0]},"caps_cfg":[{"id":"cap-s23-0","type":"b","auto":[0.6806,0.3138,0.2381],"spk":{"m":[0.5384,0.3183],"e":[0.4843,0.2485,0.1556,0.1355]},"avoid":[[0.3045,0.462,0.1,0.0787],[0.3509,0.1323,0.2667,0.2323]]},{"id":"cap-s23-1","type":"c","auto":[0.225,0.1092,0.2976]}],"zmin":1.02,"bed":"hall","fog":0.05,"nogl":true,"uclip":"fddb3e59","sfxb":[["fire",0.45]]},{"k":"s24","img":"assets/s24.jpg","map":"assets/s24-map.png","aspect":[9,16],"focus":0.88,"camcfg":{"z":[1.04,1.12],"c0":[0.5,0.5],"c1":[0.495,0.525],"off":[0.006,0.032]},"caps_cfg":[{"id":"cap-s24-0","type":"b","auto":[0.7273,0.5984,0.3571],"tip":[0.638,0.5049]}],"zmin":1.04,"bed":"hall","fog":0.05,"fxmap":true,"gmode":0,"sfxb":[["fire",0.45]]},{"k":"s25","img":"assets/s25-bg.jpg","map":"assets/s25-map.png","aspect":[9,16],"focus":0.88,"camcfg":{"z":[1.05,1.09],"c0":[0.5,0.5],"c1":[0.498,0.557],"off":[0.008,0.04]},"caps_cfg":[{"id":"cap-s25-0","type":"b","auto":[0.78,0.18,0.26],"spk":{"m":[0.5089,0.2899],"e":[0.4974,0.2721,0.0674,0.0453]},"avoid":[[0.4397,0.2332,0.1155,0.0777],[0.2143,0.0745,0.2389,0.2056]]}],"zmin":1.04,"bed":"hall","fog":0.05,"fxmap":true,"gmode":0,"fg":"assets/s25.jpg","fgp":{"c":[0.489,0.98],"z":[1.0,1.1],"o0":[0,0.025],"o1":[0,-0.025]},"dof":0.0018,"sfxb":[["fire",0.45]]},{"k":"s26","img":"assets/s26-bg.jpg","map":"assets/s26-map.png","aspect":[9,16],"focus":0.822,"camcfg":{"z":[1.06,1.08],"c0":[0.5,0.5],"c1":[0.487,0.475],"off":[-0.02,0.028]},"caps_cfg":[{"id":"cap-s26-0","type":"b","auto":[0.8137,0.4216,0.2976],"tip":[0.6441,0.4216],"avoid":[[0.2558,0.5089,0.0491,0.0397],[0.6391,0.6781,0.0397,0.0262]]},{"id":"cap-s26-1","type":"c","auto":[0.177,0.1243,0.2679]}],"zmin":1.04,"bed":"camp","fxmap":true,"fg":"assets/s26.jpg","fgp":{"c":[0.454,0.5],"z":[1.0,1.03],"o0":[0.032,0],"o1":[0.0,0]},"dof":0.0016},{"k":"s27","img":"assets/s27-bg.jpg","map":"assets/s27-map.png","aspect":[9,16],"focus":0.69,"camcfg":{"z":[1.06,1.08],"c0":[0.5,0.5],"c1":[0.557,0.456],"off":[0.006,-0.03]},"caps_cfg":[{"id":"cap-s27-0","type":"b","auto":[0.3044,0.3416,0.2381],"tip":[0.4443,0.3416]}],"zmin":1.04,"bed":"camp","fxmap":true,"gmode":0,"fg":"assets/s27.jpg","fgp":{"c":[0.56,0.98],"z":[1.02,1.05],"o0":[0,0.035],"o1":[0,-0.035]},"dof":0.0016},{"k":"s28","img":"assets/s28-bg.jpg","map":"assets/s28-map.png","aspect":[9,16],"focus":0.88,"camcfg":{"z":[1.05,1.09],"c0":[0.5,0.5],"c1":[0.523,0.537],"off":[0.008,0.04]},"caps_cfg":[{"id":"cap-s28-0","type":"b","auto":[0.6095,0.2083,0.2381],"spk":{"m":[0.5582,0.3562],"e":[0.5643,0.3421,0.0475,0.0328]},"avoid":[[0.5236,0.314,0.0814,0.0562]]}],"zmin":1.04,"bed":"camp","fxmap":true,"gmode":0,"fg":"assets/s28.jpg","fgp":{"c":[0.41,0.98],"z":[1.0,1.1],"o0":[0,0.025],"o1":[0,-0.025]},"dof":0.0018},{"k":"s29","img":"assets/s29-bg.jpg","map":"assets/s29-map.png","aspect":[9,16],"focus":0.865,"camcfg":{"z":[1.06,1.08],"c0":[0.5,0.5],"c1":[0.522,0.505],"off":[-0.02,0.028]},"caps_cfg":[{"id":"cap-s29-0","type":"b","auto":[0.4403,0.124,0.2381],"spk":{"m":[0.5451,0.4802],"e":[0.5297,0.409,0.2018,0.1534]},"avoid":[[0.3567,0.2775,0.346,0.2629]]}],"zmin":1.04,"bed":"camp","fxmap":true,"fg":"assets/s29.jpg","fgp":{"c":[0.565,0.5],"z":[1.0,1.03],"o0":[0.032,0],"o1":[-0.032,0]},"dof":0.0016},{"k":"s30","img":"assets/s30-bg.jpg","map":"assets/s30-map.png","aspect":[9,16],"focus":0.858,"camcfg":{"z":[1.06,1.08],"c0":[0.5,0.5],"c1":[0.519,0.558],"off":[0.006,-0.03]},"caps_cfg":[{"id":"cap-s30-0","type":"c","auto":[0.7844,0.1438,0.3571]}],"zmin":1.04,"bed":"jungle","fxmap":true,"fg":"assets/s30.jpg","fgp":{"c":[0.55,0.668],"z":[1.02,1.05],"o0":[0,0.035],"o1":[0,-0.035]},"dof":0.0016,"sfxb":[["garden",0.8]]},{"k":"s31","img":"assets/s31-bg.jpg","map":"assets/s31-map.png","aspect":[9,16],"focus":0.672,"camcfg":{"z":[1.05,1.09],"c0":[0.5,0.5],"c1":[0.58,0.434],"off":[0.008,0.04]},"caps_cfg":[{"id":"cap-s31-0","type":"b","auto":[0.4908,0.1168,0.2381],"spk":{"m":[0.7015,0.118],"e":[0.7098,0.1019,0.0481,0.0341]},"avoid":[[0.6686,0.0726,0.0824,0.0585],[0.3044,0.2947,0.076,0.0672]]},{"id":"cap-s31-1","type":"b","auto":[0.536,0.3546,0.2381],"spk":{"m":[0.3651,0.3453],"e":[0.3424,0.3284,0.0444,0.0392]},"avoid":[[0.6686,0.0726,0.0824,0.0585],[0.3044,0.2947,0.076,0.0672]]}],"zmin":1.04,"bed":"jungle","fxmap":true,"fg":"assets/s31.jpg","fgp":{"c":[0.521,0.386],"z":[1.0,1.1],"o0":[0,0.025],"o1":[0,-0.025]},"dof":0.0018,"sfxb":[["garden",0.8]]},{"k":"s32","img":"assets/s32-bg.jpg","map":"assets/s32-map.png","aspect":[9,16],"focus":0.88,"camcfg":{"z":[1.06,1.08],"c0":[0.5,0.5],"c1":[0.572,0.489],"off":[-0.02,0.028]},"caps_cfg":[{"id":"cap-s32-0","type":"b","auto":[0.4187,0.4534,0.3869],"tip":[0.5154,0.3762]}],"zmin":1.04,"bed":"jungle","fxmap":true,"fg":"assets/s32.jpg","fgp":{"c":[0.709,0.5],"z":[1.0,1.03],"o0":[0.0,0],"o1":[-0.032,0]},"dof":0.0016,"sfxb":[["garden",0.8]]},{"k":"s33","img":"assets/s33-bg.jpg","map":"assets/s33-map.png","aspect":[9,16],"focus":0.603,"camcfg":{"z":[1.06,1.08],"c0":[0.5,0.5],"c1":[0.477,0.464],"off":[0.006,-0.03]},"caps_cfg":[{"id":"cap-s33-0","type":"b","auto":[0.7331,0.2128,0.3125],"spk":{"m":[0.5739,0.4379],"e":[0.4697,0.3762,0.1759,0.1447]},"avoid":[[0.3189,0.2522,0.3015,0.2481],[0.7555,0.0183,0.0127,0.0091]]}],"zmin":1.04,"bed":"jungle","fxmap":true,"fg":"assets/s33.jpg","fgp":{"c":[0.43,0.392],"z":[1.02,1.05],"o0":[0,0.035],"o1":[0,-0.035]},"dof":0.0016,"sfxb":[["garden",0.8]]},{"k":"s34","img":"assets/s34.jpg","map":"assets/s34-map.png","aspect":[9,16],"focus":0.5,"camcfg":{"z":[1.04,1.12],"c0":[0.5,0.5],"c1":[0.5,0.5],"off":[0.006,0.032]},"caps_cfg":[{"id":"cap-s34-0","type":"c","auto":[0.7344,0.1211,0.3869]}],"zmin":1.04,"bed":"study","fxmap":true,"sfxb":[["garden",0.8]]},{"k":"s35","img":"assets/s35-bg.jpg","map":"assets/s35-map.png","aspect":[9,16],"focus":0.761,"camcfg":{"z":[1.05,1.09],"c0":[0.5,0.5],"c1":[0.58,0.512],"off":[0.008,0.04]},"caps_cfg":[{"id":"cap-s35-0","type":"b","auto":[0.1963,0.3658,0.2381],"spk":{"m":[0.1463,0.4585],"e":[0.1441,0.4522,0.0242,0.015]},"avoid":[[0.2359,0.4228,0.0376,0.0267],[0.3278,0.4342,0.0289,0.0239],[0.7581,0.4129,0.1804,0.1004],[0.502,0.3283,0.0402,0.031],[0.1234,0.4394,0.0414,0.0257]]},{"id":"cap-s35-1","type":"b","auto":[0.45,0.5,0.2976],"spk":{"m":[0.511,0.3509],"e":[0.5221,0.3438,0.0235,0.0181]},"avoid":[[0.2359,0.4228,0.0376,0.0267],[0.3278,0.4342,0.0289,0.0239],[0.7581,0.4129,0.1804,0.1004],[0.502,0.3283,0.0402,0.031],[0.1234,0.4394,0.0414,0.0257]]}],"zmin":1.04,"bed":"study","fxmap":true,"fg":"assets/s35.jpg","fgp":{"c":[0.655,0.597],"z":[1.0,1.1],"o0":[0,0.025],"o1":[0,-0.025]},"dof":0.0018},{"k":"s36","img":"assets/s36-bg.jpg","map":"assets/s36-map.png","aspect":[9,16],"focus":0.88,"camcfg":{"z":[1.05,1.09],"c0":[0.5,0.5],"c1":[0.459,0.537],"off":[0.008,0.04]},"caps_cfg":[{"id":"cap-s36-0","type":"b","auto":[0.7297,0.2835,0.3423],"tip":[0.6441,0.3362]}],"zmin":1.04,"bed":"study","fxmap":true,"fg":"assets/s36.jpg","fgp":{"c":[0.381,0.98],"z":[1.0,1.1],"o0":[0,0.025],"o1":[0,-0.025]},"dof":0.0018},{"k":"s37","img":"assets/s37-bg.jpg","map":"assets/s37-map.png","aspect":[9,16],"focus":0.675,"camcfg":{"z":[1.06,1.08],"c0":[0.5,0.5],"c1":[0.487,0.42],"off":[0.006,-0.03]},"caps_cfg":[{"id":"cap-s37-0","type":"b","auto":[0.2854,0.2616,0.253],"spk":{"m":[0.5293,0.2037],"e":[0.5202,0.1768,0.102,0.0645]},"avoid":[[0.4328,0.1215,0.1749,0.1105]]}],"zmin":1.04,"bed":"study","fxmap":true,"fg":"assets/s37.jpg","fgp":{"c":[0.544,0.408],"z":[1.02,1.05],"o0":[0,0.035],"o1":[0,-0.035]},"dof":0.0016},{"k":"s38","img":"assets/s38-bg.jpg","map":"assets/s38-map.png","aspect":[9,16],"focus":0.822,"camcfg":{"z":[1.05,1.09],"c0":[0.5,0.5],"c1":[0.516,0.466],"off":[0.008,0.04]},"caps_cfg":[{"id":"cap-s38-0","type":"b","auto":[0.1456,0.24,0.2827],"tip":[0.3078,0.24]}],"zmin":1.04,"bed":"study","fxmap":true,"fg":"assets/s38.jpg","fgp":{"c":[0.547,0.402],"z":[1.0,1.1],"o0":[0,0.025],"o1":[0,-0.025]},"dof":0.0018},{"k":"s39","img":"assets/s39-bg.jpg","map":"assets/s39-map.png","aspect":[9,16],"focus":0.723,"camcfg":{"z":[1.06,1.08],"c0":[0.5,0.5],"c1":[0.494,0.494],"off":[-0.02,0.028]},"caps_cfg":[{"id":"cap-s39-0","type":"b","auto":[0.141,0.6184,0.2381],"tip":[0.2809,0.6184]}],"zmin":1.04,"bed":"study","fxmap":true,"fg":"assets/s39.jpg","fgp":{"c":[0.491,0.5],"z":[1.0,1.03],"o0":[0.032,0],"o1":[-0.032,0]},"dof":0.0016},{"k":"s40","img":"assets/s40-bg.jpg","map":"assets/s40-map.png","aspect":[9,16],"focus":0.88,"camcfg":{"z":[1.06,1.08],"c0":[0.5,0.5],"c1":[0.493,0.465],"off":[0.006,-0.03]},"caps_cfg":[{"id":"cap-s40-0","type":"b","auto":[0.6229,0.6008,0.2381],"tip":[0.5634,0.5481],"avoid":[[0.9222,0.005,0.0845,0.0676]]},{"id":"cap-s40-1","type":"c","auto":[0.1943,0.0876,0.3423]},{"id":"cap-s40-2","type":"c","auto":[0.8095,0.7741,0.3274]}],"zmin":1.04,"bed":"study","fxmap":true,"fg":"assets/s40.jpg","fgp":{"c":[0.468,0.98],"z":[1.02,1.05],"o0":[0,0.035],"o1":[0,-0.035]},"dof":0.0016}],"fsk":{"c":1.25,"b":1.08},"sfxFiles":{"horses":{"src":"assets/sfx/horses.m4a","loop":true,"seam":[2.0,9.7,0.5]},"wind":{"src":"assets/sfx/wind.m4a","loop":true,"seam":[0.0,24.5,2.0]},"fire":{"src":"assets/sfx/fire.m4a","loop":true,"seam":[0.5,31.0,3.0]},"garden":{"src":"assets/sfx/garden.m4a","loop":true,"seam":[1.0,83.0,3.0]},"gallopby":{"src":"assets/sfx/gallop-by.m4a","loop":false}}};
 const RM=matchMedia('(prefers-reduced-motion: reduce)').matches;
 const DPR=Math.min(2,window.devicePixelRatio||1);
 const POOL=4;
